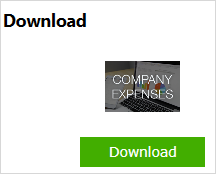
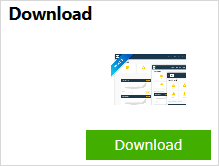
Replace company expenses with asset manager

Changed region(s): [[0.4722, 0.3012, 0.8611, 0.6627], [0.3611, 0.7831, 0.9722, 0.9639], [0.0, 0.0301, 0.4444, 0.1807]]

diff --git a/content/howto/mobile/deploy-your-first-hybrid-mobile-app.md b/content/howto/mobile/deploy-your-first-hybrid-mobile-app.md
@@ -28,7 +28,7 @@ To open a hybrid example app, follow these steps:
 
     ![](attachments/18448692/icon.png)
 
-2. Search for the **Company Expenses** app and click **Download**:
+2. Search for the **Asset Manager** app and click **Download**:
 
     ![](attachments/18448692/18581187.png)
 
@@ -36,7 +36,7 @@ To open a hybrid example app, follow these steps:
 
     ![](attachments/18448692/18581186.png) 
 
-    Studio Pro will notify you as soon as the application is deployed.
+    Studio Pro will notify you as soon as the application is deployed. While you wait, go to **Navigation**, click the **Hybrid phone app online** tab, and make sure your **Default home page** is set to **MyFirstModule.Dashboard**.
 4. Click the small arrow to open the **View App** menu and select **View Hybrid Mobile App**:
 
     ![](attachments/18448692/18581185.png) 
